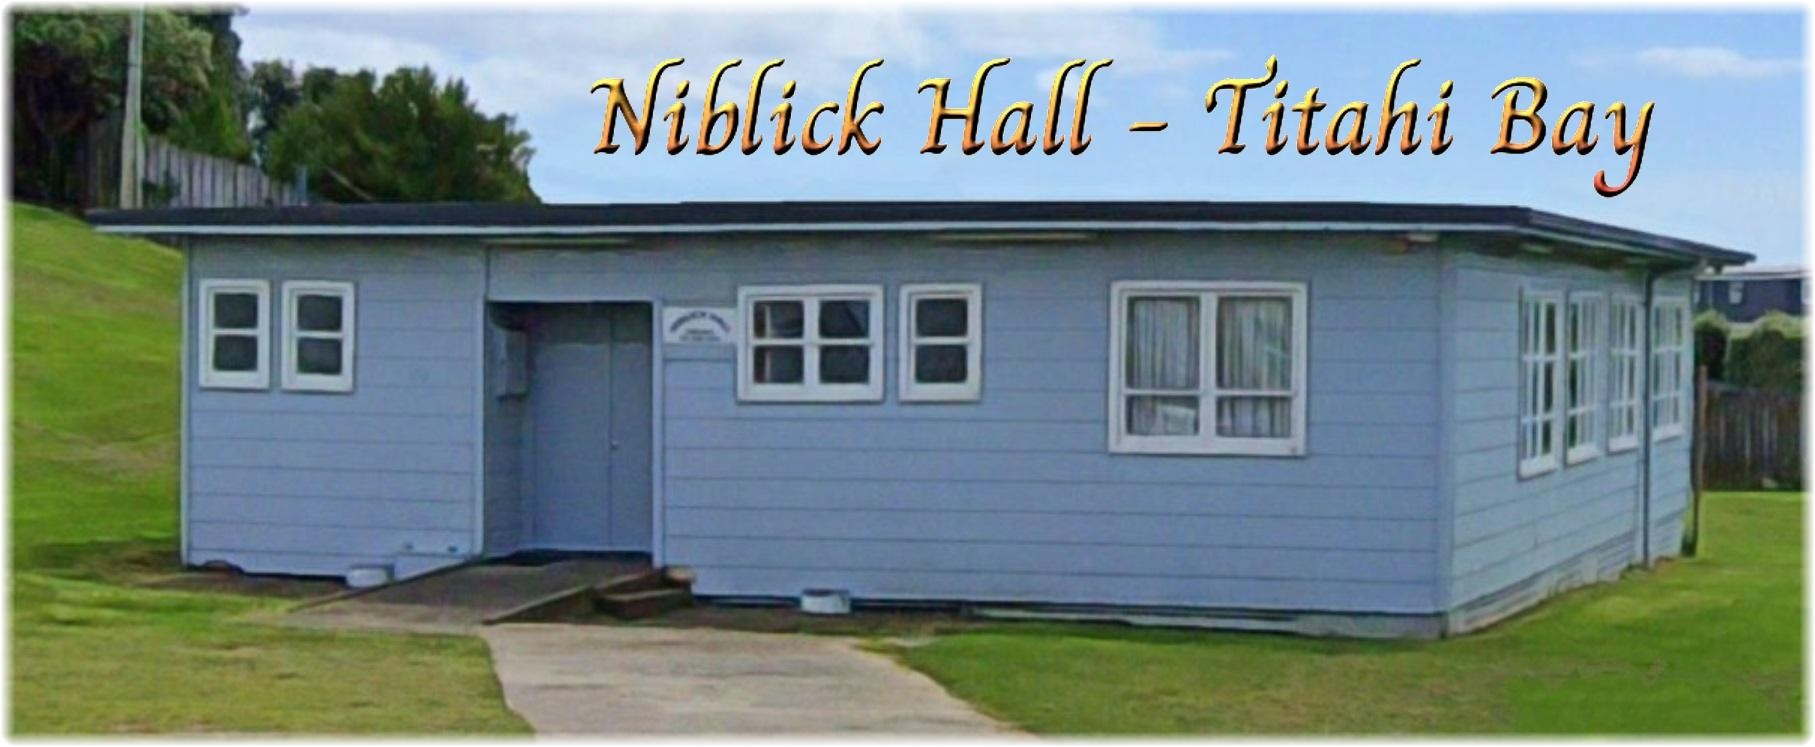
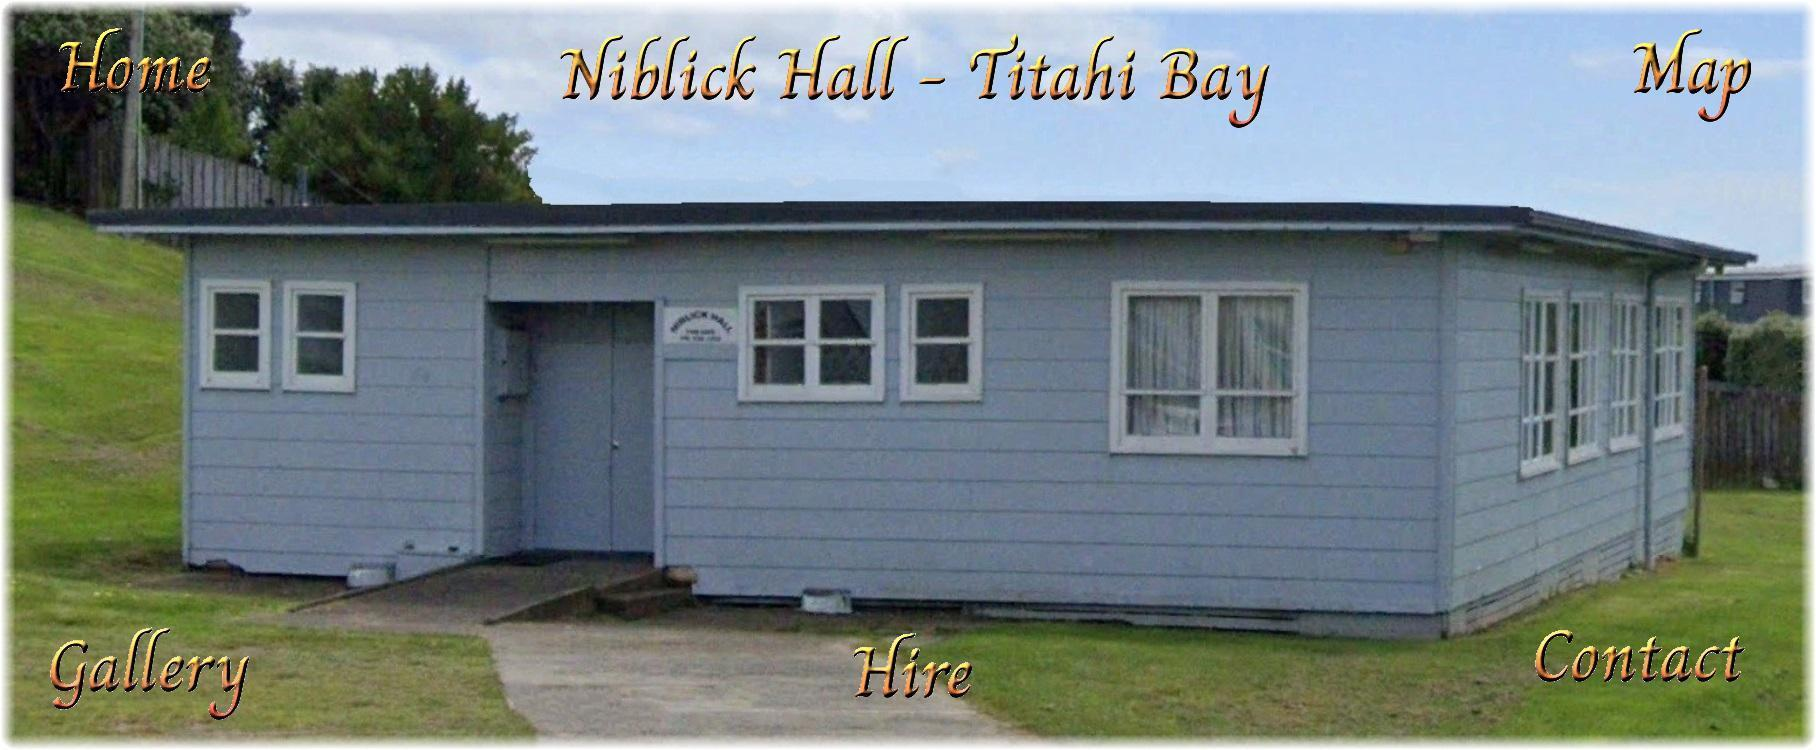
Rewrite

diff --git a/contact.html b/contact.html
@@ -29,13 +29,13 @@
 </head>
 <body>
     <div class="container">
-        <img src="jpg/niblick.jpg" alt="Scalable Image" class="image">
+        <img src="jpg/niblick.jpg" alt="Niblick Hall Image" class="image">
         <a href="index.html" class="clickable-area area1"></a>
         <a href="map.html" class="clickable-area area3"></a>
         <a href="gallery.html" class="clickable-area area4"></a>
         <a href="hire.html" class="clickable-area area5"></a>
         <a href="contact.html" class="clickable-area area6"></a>
-        <h1>Home</h1>
+        <h1>Contact Us</h1>
     </div>
 </body>
 </html>

diff --git a/gallery.html b/gallery.html
@@ -35,7 +35,12 @@
         <a href="gallery.html" class="clickable-area area4"></a>
         <a href="hire.html" class="clickable-area area5"></a>
         <a href="contact.html" class="clickable-area area6"></a>
-        <h1>Home</h1>
+    </div>
+    <div class="container">
+        <h1>Gallery</h1>
+	<a href="gallery/pptx.html" style="display: block"; target="_blank">
+    	  <h2>Hall photos</h2>
+	</a>
     </div>
 </body>
 </html>

diff --git a/hire.html b/hire.html
@@ -35,7 +35,7 @@
         <a href="gallery.html" class="clickable-area area4"></a>
         <a href="hire.html" class="clickable-area area5"></a>
         <a href="contact.html" class="clickable-area area6"></a>
-        <h1>Home</h1>
+        <h1>Hire</h1>
     </div>
 </body>
 </html>

diff --git a/map.html b/map.html
@@ -35,7 +35,7 @@
         <a href="gallery.html" class="clickable-area area4"></a>
         <a href="hire.html" class="clickable-area area5"></a>
         <a href="contact.html" class="clickable-area area6"></a>
-        <h1>Home</h1>
+        <h1>Map</h1>
     </div>
 </body>
 </html>
